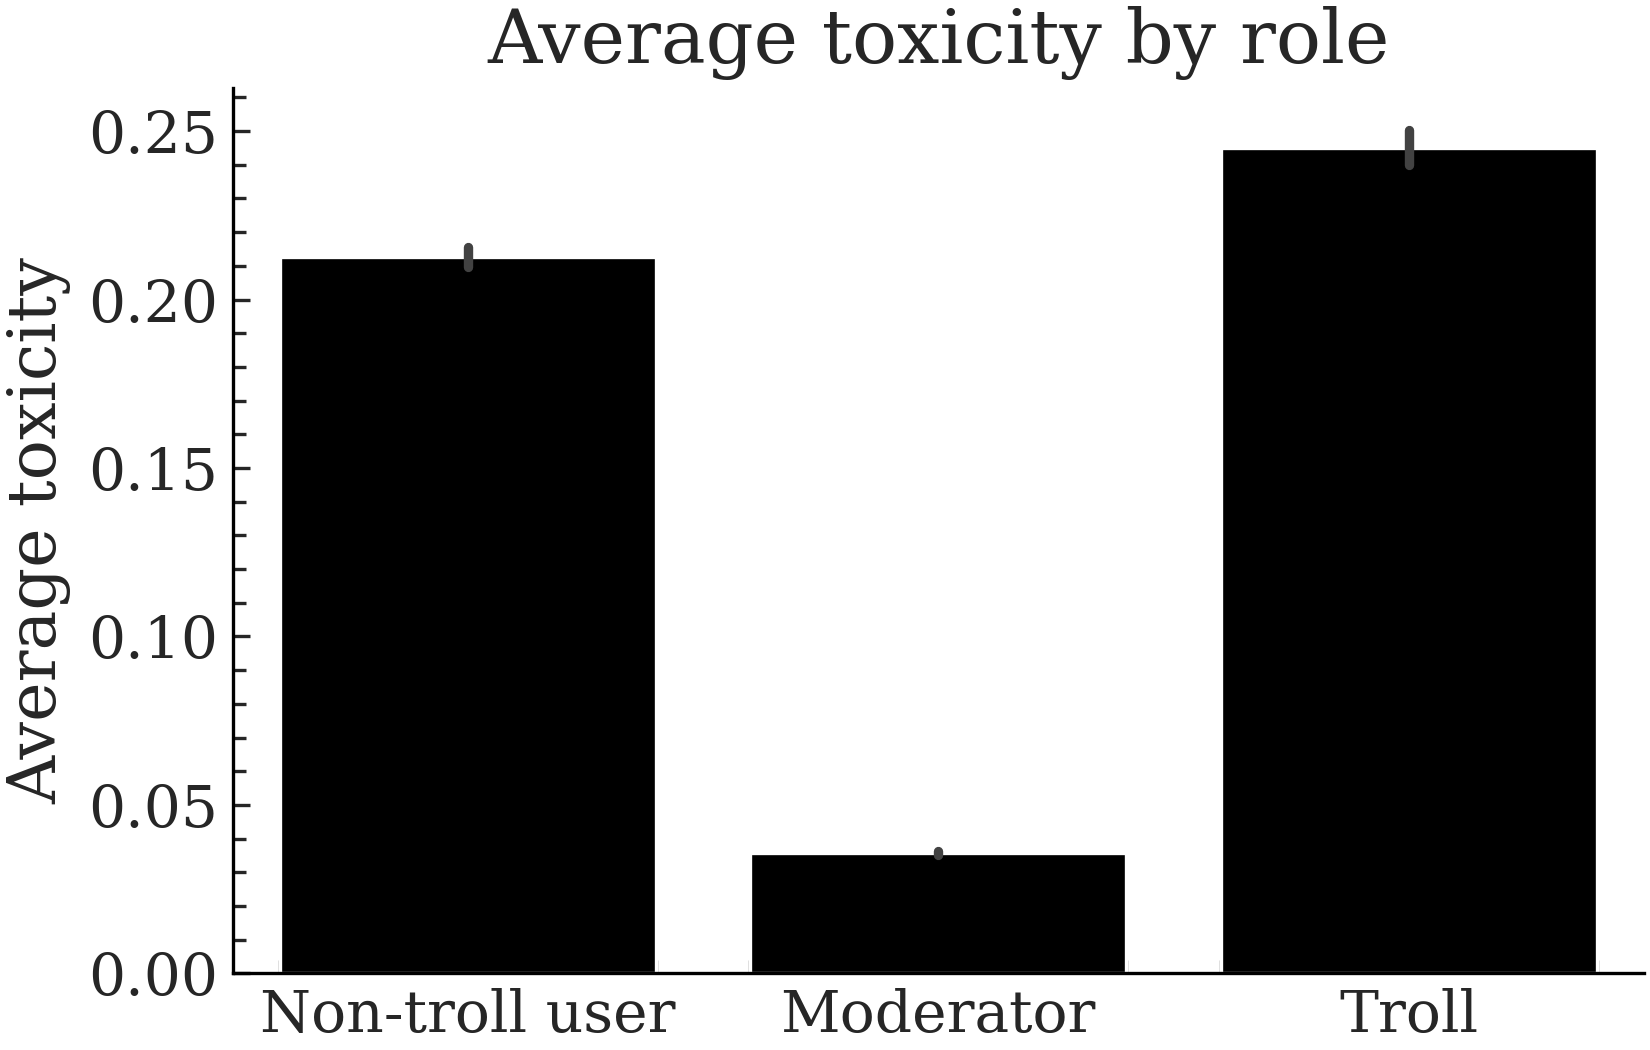
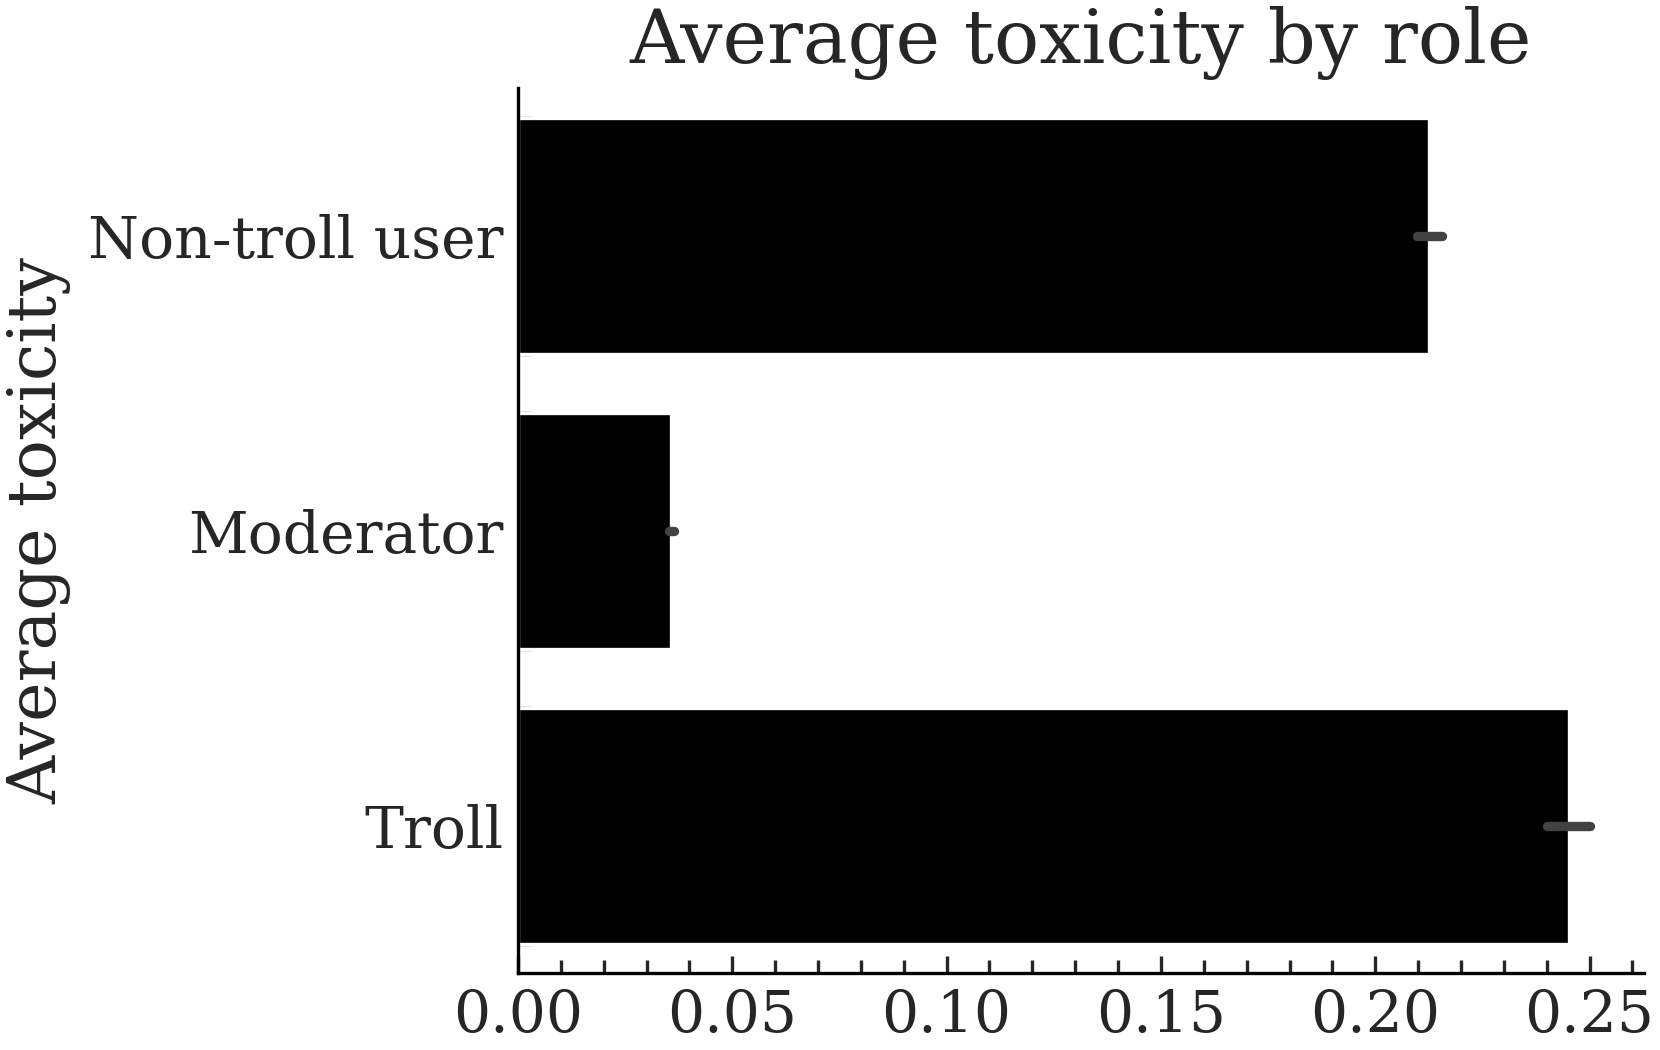
add toxicity by strategy

diff --git a/src/eval_toxicity.py b/src/eval_toxicity.py
@@ -24,45 +24,54 @@ def get_toxicity_df(
 
     full_df = full_df.loc[
         (full_df.model != "hardcoded"),
-        ["conv_id", "message_id", "is_moderator", "toxicity", "is_troll"],
+        [
+            "conv_id",
+            "message_id",
+            "is_moderator",
+            "toxicity",
+            "is_troll",
+            "strategy",
+        ],
     ]
 
     return full_df
 
 
-def toxicity_by_role_plot(df: pd.DataFrame, graph_dir: Path) -> None:
-    plot_df = df.copy()
-
-    plot_df["role"] = np.where(
-        plot_df.is_moderator,
-        "Moderator",
-        np.where(plot_df.is_troll, "Troll", "Non-troll user"),
-    )
-
+def toxicity_by_dimension(
+    plot_df: pd.DataFrame, graph_dir: Path, dimension: str
+) -> None:
     plt.figure(figsize=(6, 4))
     ax = sns.barplot(
         data=plot_df,
-        x="role",
-        y="toxicity",
+        x="toxicity",
+        y=dimension,
         estimator=np.mean,
         errorbar=("ci", 95),
     )
 
     ax.set_ylabel("Average toxicity")
     ax.set_xlabel("")
-    ax.set_title("Average toxicity by role")
+    ax.set_title(f"Average toxicity by {dimension}")
 
     plt.tight_layout()
-    tasks.graphs.save_plot(graph_dir / "role_mean_toxicity.png")
+    tasks.graphs.save_plot(graph_dir / f"{dimension}_mean_toxicity.png")
+    plt.close()
 
 
 def main(main_output_dir: Path, toxicity_ratings_dir: Path, graph_dir: Path):
     tasks.graphs.seaborn_setup()
-    main_df = get_toxicity_df(
+    df = get_toxicity_df(
         main_df_path=main_output_dir / "vmd.csv",
         toxicity_df_path=toxicity_ratings_dir / "vmd.csv",
     )
-    toxicity_by_role_plot(main_df, graph_dir)
+
+    df["role"] = np.where(
+        df.is_moderator,
+        "Moderator",
+        np.where(df.is_troll, "Troll", "Non-troll user"),
+    )
+    toxicity_by_dimension(df, graph_dir, "role")
+    toxicity_by_dimension(df, graph_dir, "strategy")
 
 
 if __name__ == "__main__":
@@ -88,5 +97,5 @@ if __name__ == "__main__":
     main(
         main_output_dir=Path(args.main_output_dir),
         toxicity_ratings_dir=Path(args.toxicity_rating_dir),
-        graph_dir=Path(args.graph_output_dir)
+        graph_dir=Path(args.graph_output_dir),
     )
